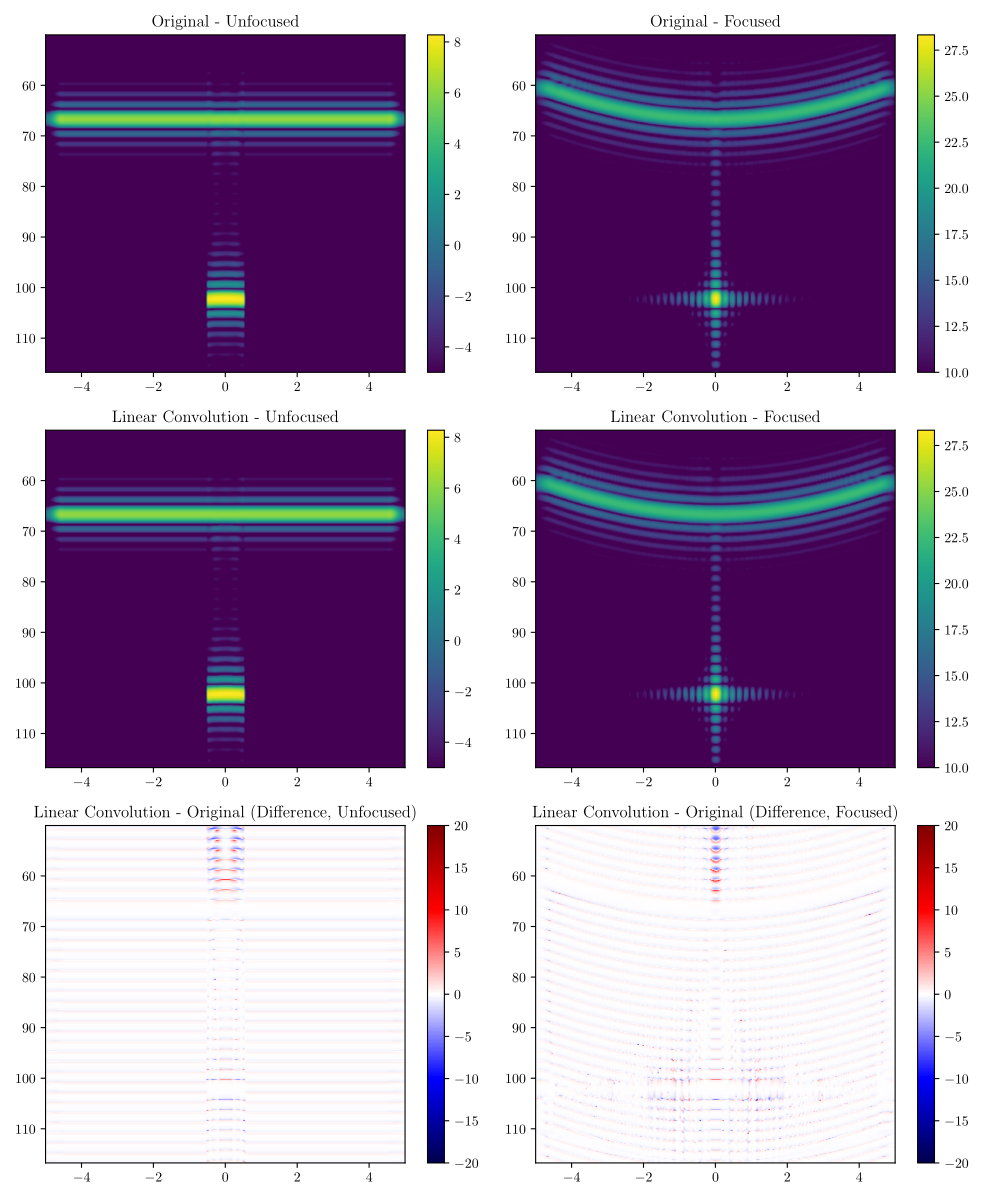
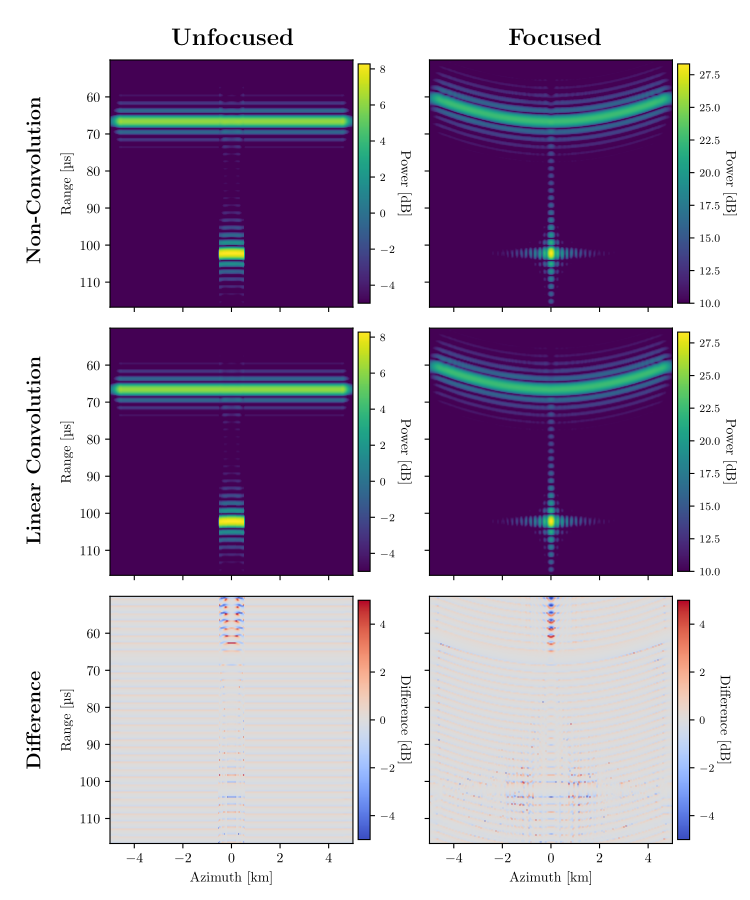
Polishing figures for TGRS

diff --git a/src/PYTHON/rdr_plots.py b/src/PYTHON/rdr_plots.py
@@ -518,3 +518,149 @@ def TGRS_rdrgrm_focused(rdrgrm, focused, par, filename,
     plt.savefig(f"{filename}.png", dpi=300, bbox_inches="tight")
     plt.savefig(f"{filename}.pgf", dpi=300, bbox_inches="tight")
     plt.close()
+
+
+
+def TGRS_rdrgrm_conv(params, directory, focused_files, unfocused_files, names):
+
+    scl = 0.75
+    pad = 12
+    fig, axes = plt.subplots(3, 2, figsize=(scl*10, scl*12), sharey=True, sharex=True)
+
+    # Column titles
+    fig.text(0.31, 0.95, "Unfocused", ha='center', fontsize=16, fontweight="bold")
+    fig.text(0.74, 0.95, "Focused", ha='center', fontsize=16, fontweight="bold")
+
+    rdrgrm_unf_orig = np.load(directory + unfocused_files[0])['rdrgrm']
+    rdrgrm_foc_orig = np.load(directory + focused_files[0])['focused']
+
+    for i, (unf_file, foc_file, name) in enumerate(zip(unfocused_files, focused_files, names)):
+
+        # Row title
+        fig.text(0.035, 0.8 - i*0.30, name, va='center', rotation=90, fontsize=14, fontweight="bold")
+
+        rdrgrm_unf = np.load(directory + unf_file)['rdrgrm']
+        rdrgrm_foc = np.load(directory + foc_file)['focused']
+
+        extent = [-5, 5,
+                2*(params["rx_window_offset_m"] + params["rx_window_m"])/299.792458,
+                2*params["rx_window_offset_m"]/299.792458]
+
+        # Unfocused
+        im_unf = axes[i][0].imshow(rdrgrm_unf, aspect='auto', cmap='viridis',
+                                interpolation='nearest', vmin=-5, extent=extent)
+        cbar = fig.colorbar(im_unf, ax=axes[i][0], fraction=0.046, pad=0.02)
+        cbar.set_label("Power [dB]", rotation=270, labelpad=pad)
+        cbar.ax.tick_params(labelsize=8)
+        cbar.ax.xaxis.set_label_position('top')
+
+        # Focused
+        im_foc = axes[i][1].imshow(rdrgrm_foc, aspect='auto', cmap='viridis',
+                                interpolation='nearest', vmin=10, extent=extent)
+        cbar = fig.colorbar(im_foc, ax=axes[i][1], fraction=0.046, pad=0.02)
+        cbar.set_label("Power [dB]", rotation=270, labelpad=pad)
+        cbar.ax.tick_params(labelsize=8)
+        cbar.ax.xaxis.set_label_position('top')
+
+        # Add y-axis label only on left column
+        axes[i][0].set_ylabel("Range [µs]")
+
+    # Difference row
+    j = 0
+    conv_idx = 1
+    row_idx = len(focused_files) + j
+
+    fig.text(0.035, 0.8 - row_idx*0.30, f"Difference",
+            va='center', rotation=90, fontsize=14, fontweight="bold")
+
+    lims = 5
+    diff_unf = np.load(directory + unfocused_files[conv_idx])['rdrgrm'] - rdrgrm_unf_orig
+    im_diff_unf = axes[row_idx][0].imshow(diff_unf, aspect='auto', cmap='coolwarm',
+                                        interpolation='nearest', vmin=-lims, vmax=lims,
+                                        extent=extent)
+
+    diff_foc = np.load(directory + focused_files[conv_idx])['focused'] - rdrgrm_foc_orig
+    im_diff_foc = axes[row_idx][1].imshow(diff_foc, aspect='auto', cmap='coolwarm',
+                                        interpolation='nearest', vmin=-lims, vmax=lims,
+                                        extent=extent)
+
+    cbar = fig.colorbar(im_diff_unf, ax=axes[row_idx][0], fraction=0.046, pad=0.02)
+    cbar.set_label("Difference [dB]", rotation=270, labelpad=pad)
+    cbar.ax.xaxis.set_label_position('top')
+    cbar.ax.tick_params(labelsize=8)
+
+    cbar = fig.colorbar(im_diff_foc, ax=axes[row_idx][1], fraction=0.046, pad=0.02)
+    cbar.set_label("Difference [dB]", rotation=270, labelpad=pad)
+    cbar.ax.xaxis.set_label_position('top')
+    cbar.ax.tick_params(labelsize=8)
+
+    # Axis labels for the last row
+    axes[row_idx][0].set_xlabel("Azimuth [km]")
+    axes[row_idx][1].set_xlabel("Azimuth [km]")
+    axes[row_idx][0].set_ylabel("Range [µs]")
+
+    plt.tight_layout(rect=[0.06, 0, 1, 0.95])
+    plt.savefig("TGRS-CONV-COMP.png")
+    plt.savefig("TGRS-CONV-COMP.pgf")
+    plt.close()
+
+
+def TGRS_KOR1_SYN(rdrgrm, focused, rx_win, OBS, mola, aeroid, plotpar, geometry=None,
+                   trc_st=750, trc_en=1200,
+                   rdrmin=22, rdrmax=35, focmin=35, focmax=45,
+                   aspect="auto", ymin=314.15, ymax=318):
+
+    Nr, Na = rdrgrm.shape
+
+    extent = [
+        geometry['LAT'].iloc[0], geometry['LAT'].iloc[-1],
+        np.min(rx_win)/1e3 + 7.5, np.min(rx_win)/1e3,
+    ]
+
+    fig, ax = plt.subplots(3, 1, figsize=(10, 6), sharex=True, constrained_layout=True)
+
+    ax[0].set_xlim(geometry['LAT'].iloc[0], geometry['LAT'].iloc[-1])
+    if "trc" in plotpar.keys() and "depth" in plotpar.keys():
+        i = 0
+        for data in zip(plotpar["trc"], plotpar["depth"]):
+            lat_subsrf = aeroid['LAT'][data[0]]
+            depth_subsrf = data[1] + 315.4
+            if np.any(depth_subsrf < 316):
+                continue
+            else:
+                if i == 0:
+                    ax[0].plot(lat_subsrf, depth_subsrf, color="red", linewidth=1, label="Subsurface Layers")
+                else:
+                    ax[0].plot(lat_subsrf, depth_subsrf, color="red", linewidth=1)
+                i += 1
+
+    ax[0].plot(mola['LAT'], mola['SRANGE']/1e3, color="black", linewidth=1, label="Surface Topography")
+    ax[0].legend()
+
+    # rdrgrms
+    im1 = ax[1].imshow(rdrgrm, vmin=rdrmin, vmax=rdrmax, cmap="viridis", aspect=aspect, extent=extent)
+    plt.colorbar(im1, label="Power [dB]", pad=0.01)
+    im2 = ax[2].imshow(focused, extent=extent, vmin=focmin, vmax=focmax, aspect=aspect)
+    plt.colorbar(im2, label="Power [dB]", pad=0.01)
+
+    # labels
+    for a in ax: a.set_ylabel("Range [km]")
+    ax[2].set_xlabel("Latitude [deg]")
+
+    labels = ["(a) 2D Slice","(b) Unfocused", "(c) Focused"]
+    fontsizes = (11, 11, 11)
+    for a, label, fs in zip(ax, labels, fontsizes):
+        
+        a.tick_params(axis="both", which="major", labelsize=9, direction="out")
+        a.tick_params(axis="both", which="minor", direction="out")
+        a.text(0.011, 0.95, label, transform=a.transAxes, fontsize=fs,
+            fontweight="bold", va="top", ha="left", color="black",
+            bbox=dict(facecolor="white", alpha=0.6, edgecolor="none", pad=2))
+
+    # cropping
+    for a in ax: a.set_ylim(ymax, ymin)
+
+    # export
+    plt.savefig("figures/TGRS-KOR2-SYN.png")
+    plt.savefig("figures/TGRS-KOR2-SYN.pgf")
+    plt.close()

diff --git a/examples/KOROLEV/code/plots.py b/examples/KOROLEV/code/plots.py
@@ -27,7 +27,7 @@ NoOffset = ku.correct_rdrgrm(rdrgrm, aeroid)
 # FIRST LOAD REAL DATA 
 sharad_data_path = "data/Observation/rdr-cosharps/r_0554201_001_ss19_700_a.dat"
 
-data = ku.load_SHARAD_RDR(sharad_data_path, st=18000, en=30000, latmin=70.768, latmax=74.2075)
+#data = ku.load_SHARAD_RDR(sharad_data_path, st=18000, en=30000, latmin=70.768, latmax=74.2075)
 #ku.plot_SHARAD_RDR(data, geometry)
 
 par = oh.load_params("data/params.pkl", "data/Subsurface/KOR_T.txt")
@@ -63,7 +63,7 @@ ymin, ymax = ku.corrected_ymin_ymax(rdrgrm, aeroid, trc_st, trc_en, correction)
 
 # load in crater interior
 korolev_interior = ku.import_korolev_interior("data/Subsurface/")
-trc, depth = ku.clean_korolev_interior(korolev_interior, aeroid, mola)
+trc, depth = ku.clean_korolev_interior(korolev_interior, aeroid, mola, eps=3.15)
 
 plotpar = {
     'obs': OBS,
@@ -88,7 +88,7 @@ rp.plot_SHARAD_comparison(NoOffset, foc_intrp, geometry, aeroid, mola['TOPO'], p
 
 # generate final plot
 geometry = ku.load_sharad_orbit_PKL(DIRECTORY, OBS)
-rp.plot_unfoc_foc(rdr_db, foc_db, rx_win, OBS, 
-                    rdrmin=-15, rdrmax=5, 
+rp.TGRS_KOR1_SYN(rdr_db, foc_db, rx_win, OBS, mola, aeroid, plotpar, geometry=geometry,
+                    rdrmin=-15, rdrmax=5, trc_st=trc_st, trc_en=trc_en,
                     focmin=plotpar['syn_min'], focmax=plotpar['syn_max'],
                     ymax=319)

diff --git a/examples/UNIT_TESTS/convolutionCompare/plot.py b/examples/UNIT_TESTS/convolutionCompare/plot.py
@@ -8,7 +8,7 @@ import rdr_plots       as rp
 directory = "rdrgrms/"
 unfocused_files = ["NoConv_raw.npz", "LinConv_raw.npz"]
 focused_files   = ["NoConv_focused.npz", "LinConv_focused.npz"]
-names           = ["Original", "Linear Convolution"]
+names           = ["Non-Convolution", "Linear Convolution"]
 
 with open("inputs/NoConv.pkl", 'rb') as hdl:
     params = pickle.load(hdl)
